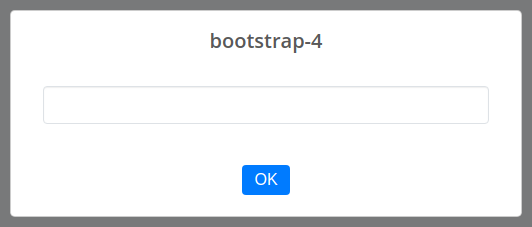
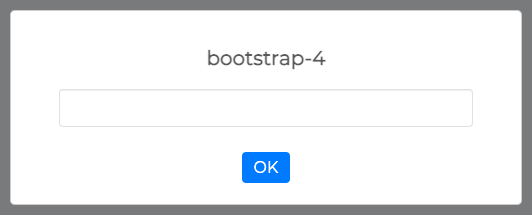
Update themes' screenshots

diff --git a/index.html b/index.html
@@ -63,7 +63,6 @@
     <a href="/#icons"><span>Icons</span></a>
     <a href="/#input-types"><span>Input Types</span></a>
     <a href="/#methods" class="mobile-hidden"><span>Methods</span></a>
-    <a href="/#collaborators"><span>Collaborators</span></a>
     <a href="/#themes"><span>Themes</span></a>
     <a href="/#donations" class="mobile-hidden"><span>Donations</span></a>
     <a href="/#sponsors"><span>Sponsors</span></a>
@@ -1693,26 +1692,6 @@ import Swal from 'sweetalert2/src/sweetalert2.js'
 
 // your-app.scss
 @import '~@sweetalert2/themes/dark/dark.scss';</code></pre>
-  </div>
-
-  <!-- Collaborators -->
-  <h3 id="collaborators">Collaborators</h3>
-  <div class="collaborators">
-    <div>
-      <a href="https://github.com/gverni" target="_blank" rel="noopener" aria-label="Giuseppe Verni">
-        <img src="https://avatars3.githubusercontent.com/u/17089396?v=4&s=100" alt=""><br>@gverni
-      </a>
-    </div>
-    <div>
-      <a href="https://github.com/zenflow" target="_blank" rel="noopener" aria-label="Matthew Francis Brunetti">
-        <img src="https://avatars3.githubusercontent.com/u/3198597?v=4&s=100" alt=""><br>@zenflow
-      </a>
-    </div>
-    <div>
-      <a href="https://github.com/toverux" target="_blank" rel="noopener" aria-label="Morgan Touverey-Quilling">
-        <img src="https://avatars1.githubusercontent.com/u/1343250?v=4&s=100" alt=""><br>@toverux
-      </a>
-    </div>
   </div>
 
   <!-- Donations -->

diff --git a/tools/theme-screenshot.js b/tools/theme-screenshot.js
@@ -17,7 +17,7 @@ if (!theme) {
   process.exit(1)
 }
 
-;(async () => {
+(async () => {
   const browser = await puppeteer.launch({
     headless: false,
     slowMo: 50
@@ -30,11 +30,11 @@ if (!theme) {
     height: 800,
   })
 
-  await page.waitFor(1000)
+  await page.waitForTimeout(1000)
 
-  await page.select('#theme', `https://cdn.jsdelivr.net/npm/@sweetalert2/theme-${theme}/${theme}.css`)
+  await page.select('#theme', `//cdn.jsdelivr.net/npm/@sweetalert2/theme-${theme}/${theme}.css`)
 
-  await page.waitFor(1000)
+  await page.waitForTimeout(1000)
 
   const executionContext = await page.mainFrame().executionContext()
   const { width, height } = await executionContext.evaluate(
@@ -47,6 +47,7 @@ if (!theme) {
         footer: '',
       })
       window.Swal.getContainer().style.padding = 0
+      window.Swal.getContainer().style.gridTemplateRows = 'auto auto auto 0'
       const popup = window.Swal.getPopup()
       const conputedStyle = window.getComputedStyle(popup)
 
@@ -58,12 +59,14 @@ if (!theme) {
     theme
   )
 
-  await page.waitFor(1000)
+  await page.waitForTimeout(1000)
 
   await page.setViewport({
     width,
     height,
   })
+
+  await page.waitForTimeout(1000)
 
   await page.screenshot({
     path: `./images/themes-${theme}.png`

diff --git a/styles/styles.css b/styles/styles.css
@@ -615,7 +615,6 @@ tr:hover .hover-anchor {
 
 .frameworks-integrations,
 .donation-options,
-.collaborators,
 .sponsors {
   display: flex;
   flex-wrap: wrap;
@@ -628,7 +627,6 @@ tr:hover .hover-anchor {
 }
 .frameworks-integrations div,
 .donation-options div,
-.collaborators div,
 .sponsors div {
   flex: 1;
   margin: 1em 0;
@@ -636,14 +634,12 @@ tr:hover .hover-anchor {
 @media all and (-ms-high-contrast: none) {
   .frameworks-integrations div,
 .donation-options div,
-.collaborators div,
 .sponsors div {
     flex-basis: auto;
   }
 }
 .frameworks-integrations a,
 .donation-options a,
-.collaborators a,
 .sponsors a {
   display: inline-block;
   min-width: 6.875em;
@@ -651,7 +647,6 @@ tr:hover .hover-anchor {
 }
 .frameworks-integrations img,
 .donation-options img,
-.collaborators img,
 .sponsors img {
   width: 5em;
   height: 5em;

diff --git a/recipe-gallery/blurred-backdrop.html b/recipe-gallery/blurred-backdrop.html
@@ -33,7 +33,6 @@
     <a href="/#icons"><span>Icons</span></a>
     <a href="/#input-types"><span>Input Types</span></a>
     <a href="/#methods" class="mobile-hidden"><span>Methods</span></a>
-    <a href="/#collaborators"><span>Collaborators</span></a>
     <a href="/#themes"><span>Themes</span></a>
     <a href="/#donations"><span>Donations</span></a>
     <a href="/#sponsors"><span>Sponsors</span></a>

diff --git a/recipe-gallery/bootstrap-custom-loader.html b/recipe-gallery/bootstrap-custom-loader.html
@@ -33,7 +33,6 @@
     <a href="/#icons"><span>Icons</span></a>
     <a href="/#input-types"><span>Input Types</span></a>
     <a href="/#methods" class="mobile-hidden"><span>Methods</span></a>
-    <a href="/#collaborators"><span>Collaborators</span></a>
     <a href="/#themes"><span>Themes</span></a>
     <a href="/#donations"><span>Donations</span></a>
     <a href="/#sponsors"><span>Sponsors</span></a>

diff --git a/recipe-gallery/colored-toasts.html b/recipe-gallery/colored-toasts.html
@@ -33,7 +33,6 @@
     <a href="/#icons"><span>Icons</span></a>
     <a href="/#input-types"><span>Input Types</span></a>
     <a href="/#methods" class="mobile-hidden"><span>Methods</span></a>
-    <a href="/#collaborators"><span>Collaborators</span></a>
     <a href="/#themes"><span>Themes</span></a>
     <a href="/#donations"><span>Donations</span></a>
     <a href="/#sponsors"><span>Sponsors</span></a>

diff --git a/recipe-gallery/crop-image.html b/recipe-gallery/crop-image.html
@@ -33,7 +33,6 @@
     <a href="/#icons"><span>Icons</span></a>
     <a href="/#input-types"><span>Input Types</span></a>
     <a href="/#methods" class="mobile-hidden"><span>Methods</span></a>
-    <a href="/#collaborators"><span>Collaborators</span></a>
     <a href="/#themes"><span>Themes</span></a>
     <a href="/#donations"><span>Donations</span></a>
     <a href="/#sponsors"><span>Sponsors</span></a>

diff --git a/recipe-gallery/draw-attention.html b/recipe-gallery/draw-attention.html
@@ -33,7 +33,6 @@
     <a href="/#icons"><span>Icons</span></a>
     <a href="/#input-types"><span>Input Types</span></a>
     <a href="/#methods" class="mobile-hidden"><span>Methods</span></a>
-    <a href="/#collaborators"><span>Collaborators</span></a>
     <a href="/#themes"><span>Themes</span></a>
     <a href="/#donations"><span>Donations</span></a>
     <a href="/#sponsors"><span>Sponsors</span></a>

diff --git a/recipe-gallery/i18n-l10n.html b/recipe-gallery/i18n-l10n.html
@@ -33,7 +33,6 @@
     <a href="/#icons"><span>Icons</span></a>
     <a href="/#input-types"><span>Input Types</span></a>
     <a href="/#methods" class="mobile-hidden"><span>Methods</span></a>
-    <a href="/#collaborators"><span>Collaborators</span></a>
     <a href="/#themes"><span>Themes</span></a>
     <a href="/#donations"><span>Donations</span></a>
     <a href="/#sponsors"><span>Sponsors</span></a>

diff --git a/recipe-gallery/index.html b/recipe-gallery/index.html
@@ -33,7 +33,6 @@
     <a href="/#icons"><span>Icons</span></a>
     <a href="/#input-types"><span>Input Types</span></a>
     <a href="/#methods" class="mobile-hidden"><span>Methods</span></a>
-    <a href="/#collaborators"><span>Collaborators</span></a>
     <a href="/#themes"><span>Themes</span></a>
     <a href="/#donations"><span>Donations</span></a>
     <a href="/#sponsors"><span>Sponsors</span></a>

diff --git a/recipe-gallery/input-date-flatpickr.html b/recipe-gallery/input-date-flatpickr.html
@@ -33,7 +33,6 @@
     <a href="/#icons"><span>Icons</span></a>
     <a href="/#input-types"><span>Input Types</span></a>
     <a href="/#methods" class="mobile-hidden"><span>Methods</span></a>
-    <a href="/#collaborators"><span>Collaborators</span></a>
     <a href="/#themes"><span>Themes</span></a>
     <a href="/#donations"><span>Donations</span></a>
     <a href="/#sponsors"><span>Sponsors</span></a>

diff --git a/recipe-gallery/input-number-input-range.html b/recipe-gallery/input-number-input-range.html
@@ -33,7 +33,6 @@
     <a href="/#icons"><span>Icons</span></a>
     <a href="/#input-types"><span>Input Types</span></a>
     <a href="/#methods" class="mobile-hidden"><span>Methods</span></a>
-    <a href="/#collaborators"><span>Collaborators</span></a>
     <a href="/#themes"><span>Themes</span></a>
     <a href="/#donations"><span>Donations</span></a>
     <a href="/#sponsors"><span>Sponsors</span></a>
